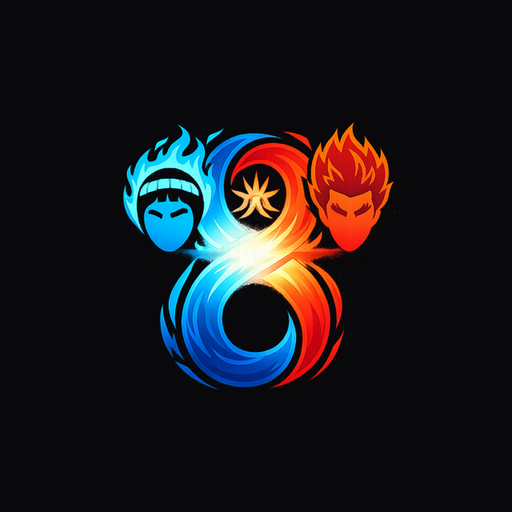
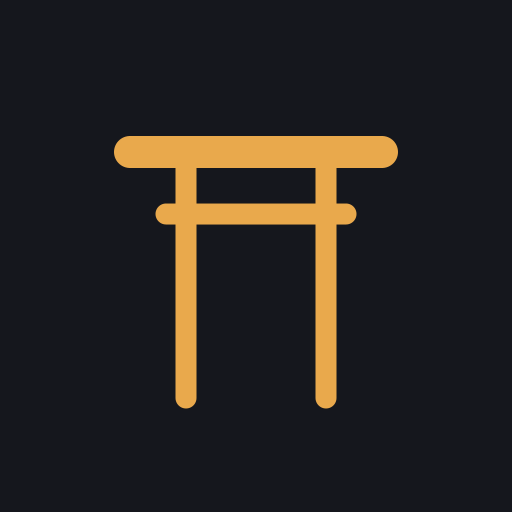
fix: 탭바 아이콘 중앙 정렬 + 전 아이콘을 문(토리이) 마크로 교체
- TabBar: 고정 바닥 여백으로 아이콘이 위로 쏠리던 문제 → 대칭 패딩
  (pt 10 / pb max(12,safe-area))으로 탭바 중앙 정렬
- 앱 로딩 스플래시의 옛 컬러 로고(logo.png) → 골드 토리이 마크
- favicon/PWA/애플 아이콘 전부 골드 토리이로 재생성
  (favicon.svg + pwa-192/512 + maskable-512 + apple-touch-icon)
- 옛 logo.png·favicon.ico 제거, scripts/generate-icons.mjs 추가
  (구 generate-pwa-icons.mjs 대체)

검증: build·tsc 통과, precache 1148KB→627KB

Changed region(s): [[0.2188, 0.25, 0.7812, 0.8125]]

diff --git a/src/App.tsx b/src/App.tsx
@@ -5,6 +5,7 @@ import { getDueCards, getCardsByIds } from '@/lib/data';
 import type { SessionSummary } from '@/hooks/useReviewSession';
 import TabBar from '@/components/layout/TabBar';
 import ScreenContainer from '@/components/layout/ScreenContainer';
+import { ToriiMark } from '@/components/layout/PageLayout';
 import Home from '@/pages/Home';
 import Decks from '@/pages/Decks';
 import Stats from '@/pages/Stats';
@@ -74,9 +75,9 @@ export default function App() {
   if (loading) {
     return (
       <ScreenContainer className="flex items-center justify-center">
-        <div className="text-center space-y-3">
-          <img src="/logo.png" alt="Hachimon" className="w-16 h-16 rounded-2xl mx-auto animate-pulse" />
-          <p className="text-[14px] text-zinc-400">카드 불러오는 중...</p>
+        <div className="text-center space-y-4">
+          <div className="flex justify-center animate-pulse"><ToriiMark size={60} /></div>
+          <p className="text-[14px] text-[#969BA6]">카드 불러오는 중...</p>
         </div>
       </ScreenContainer>
     );
@@ -86,8 +87,8 @@ export default function App() {
     return (
       <ScreenContainer className="flex items-center justify-center px-4">
         <div className="text-center space-y-2">
-          <p className="text-[16px] font-semibold text-red-400">로딩 실패</p>
-          <p className="text-[13px] text-zinc-400">{error}</p>
+          <p className="text-[16px] font-semibold text-[#DD8C85]">로딩 실패</p>
+          <p className="text-[13px] text-[#969BA6]">{error}</p>
         </div>
       </ScreenContainer>
     );

diff --git a/src/components/layout/TabBar.tsx b/src/components/layout/TabBar.tsx
@@ -15,15 +15,18 @@ interface TabBarProps {
 
 export default function TabBar({ active, onChange }: TabBarProps) {
   return (
-    <nav className="fixed bottom-0 left-1/2 -translate-x-1/2 w-full max-w-[393px] bg-[#0C0D11]/85 backdrop-blur-xl border-t border-white/[0.07] z-50">
-      <div className="flex justify-around h-[52px]">
+    <nav
+      className="fixed bottom-0 left-1/2 -translate-x-1/2 w-full max-w-[393px] bg-[#0C0D11]/85 backdrop-blur-xl border-t border-white/[0.07] z-50"
+      style={{ paddingTop: 10, paddingBottom: 'max(12px, env(safe-area-inset-bottom))' }}
+    >
+      <div className="flex justify-around items-center">
         {tabs.map(({ id, label, icon: Icon }) => {
           const on = active === id;
           return (
             <button
               key={id}
               onClick={() => onChange(id)}
-              className="relative flex flex-col items-center justify-center min-w-[64px] gap-1.5 transition-colors"
+              className="flex flex-col items-center justify-center min-w-[64px] gap-1.5"
               style={{ color: on ? '#E9A94C' : '#5D636F' }}
             >
               <Icon
@@ -36,7 +39,6 @@ export default function TabBar({ active, onChange }: TabBarProps) {
           );
         })}
       </div>
-      <div className="pb-safe" style={{ minHeight: 24 }} />
     </nav>
   );
 }

diff --git a/index.html b/index.html
@@ -2,9 +2,9 @@
 <html lang="ko">
   <head>
     <meta charset="UTF-8" />
-    <link rel="icon" href="/favicon.ico" />
-    <link rel="icon" type="image/png" sizes="512x512" href="/logo.png" />
-    <link rel="apple-touch-icon" href="/logo.png" />
+    <link rel="icon" type="image/svg+xml" href="/favicon.svg" />
+    <link rel="icon" type="image/png" sizes="64x64" href="/favicon-64.png" />
+    <link rel="apple-touch-icon" href="/apple-touch-icon.png" />
     <link rel="preconnect" href="https://fonts.googleapis.com" />
     <link rel="preconnect" href="https://fonts.gstatic.com" crossorigin />
     <link href="https://fonts.googleapis.com/css2?family=Geist:wght@300;400;500;600;700&family=Geist+Mono:wght@400;500&family=Noto+Sans+KR:wght@400;500;600;700&display=swap" rel="stylesheet" />

diff --git a/vite.config.ts b/vite.config.ts
@@ -11,7 +11,7 @@ export default defineConfig({
     VitePWA({
       registerType: 'autoUpdate',
       // 빌드 산출물(JS/CSS/HTML/폰트/아이콘)을 precache → 오프라인 앱 셸
-      includeAssets: ['favicon.ico', 'logo.png'],
+      includeAssets: ['favicon.svg', 'apple-touch-icon.png'],
       manifest: {
         name: 'Hachimon',
         short_name: 'Hachimon',